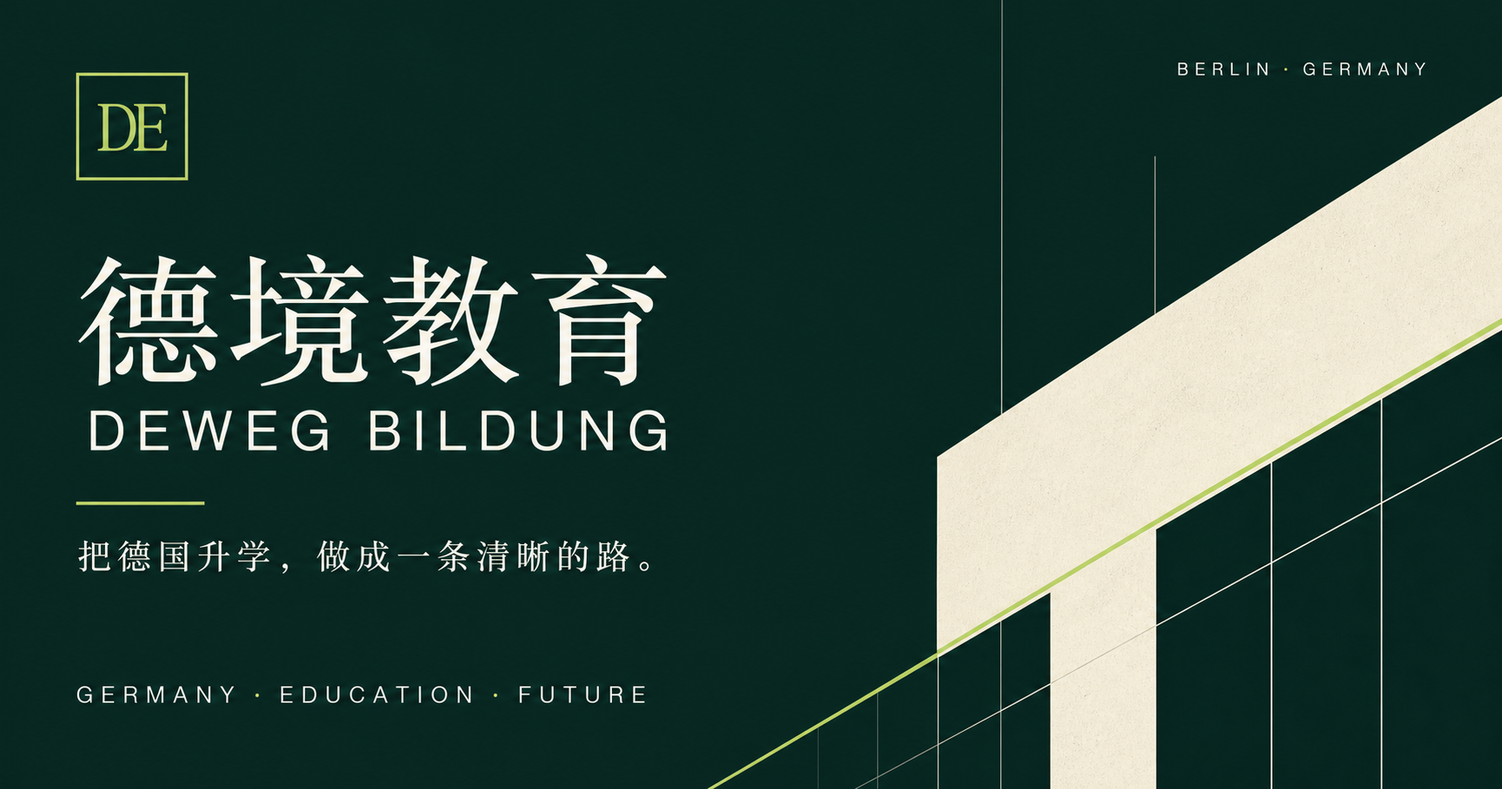
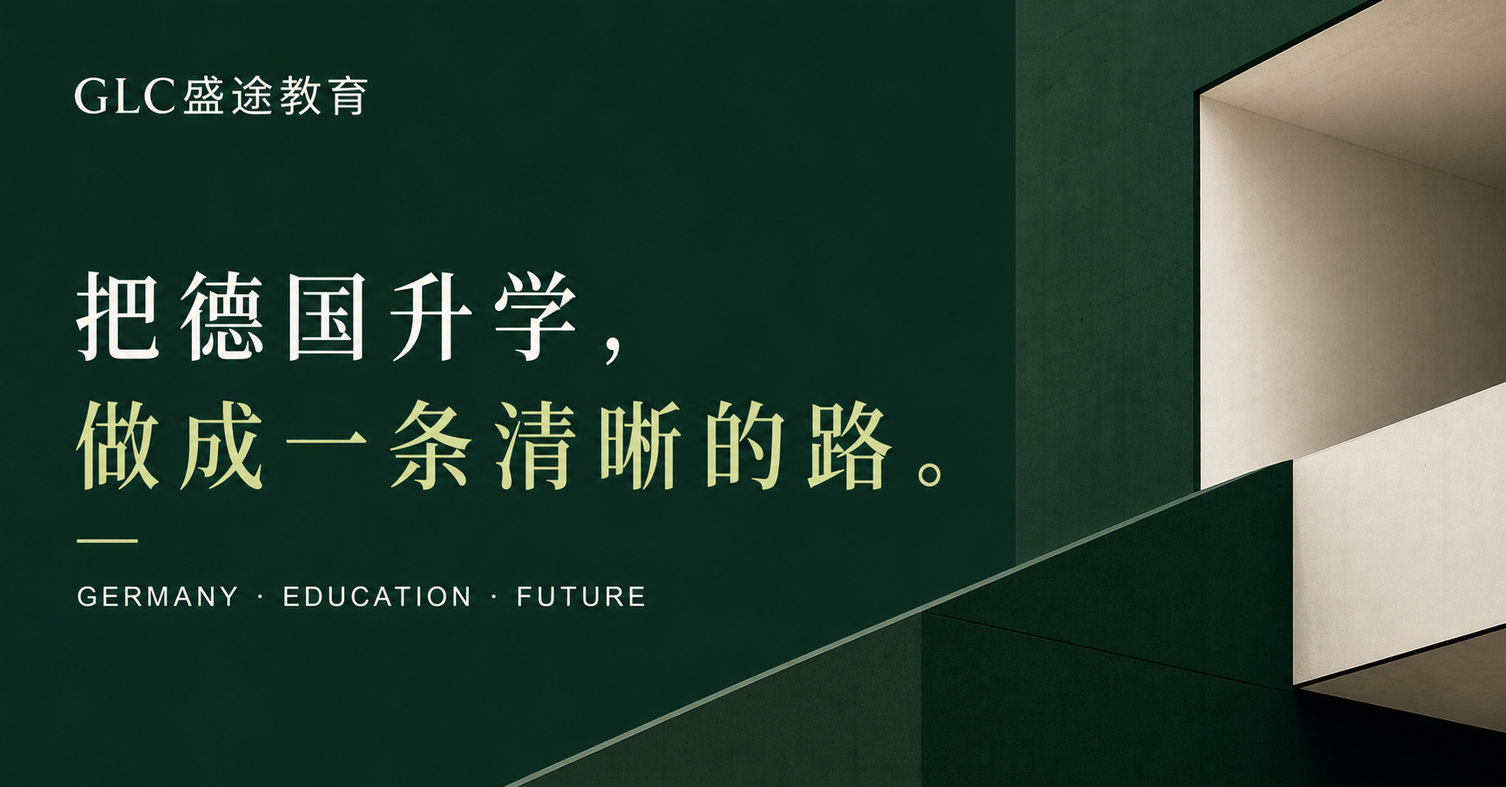
Correct brand to GLC Shengtujiaoyu

diff --git a/app/about/page.tsx b/app/about/page.tsx
@@ -1,9 +1,9 @@
 import type { Metadata } from "next";
 import { BottomCta, Disclaimer, PageShell, SectionHeading, SubHero } from "../site";
-export const metadata: Metadata = { title:"关于我们", description:"了解德境教育的品牌理念、创立初心和教育价值观。" };
-export default function About(){return <PageShell><SubHero kicker="ÜBER UNS" title="关于德境教育" intro="教育不是一次中介服务，而是一段需要方向、判断与长期陪伴的成长规划。" index="05" image="/images/munich-city.jpg" alt="慕尼黑城市建筑"/>
-  <section className="section container editorial-intro"><p className="eyebrow">UNSERE IDEE</p><blockquote>“把复杂的德国教育体系，<br/>转化为一条学生真正能够理解并走下去的路。”</blockquote><div><h3>品牌理念</h3><p>德境教育关注的不只是一次申请结果，而是学生在不同阶段如何建立能力、形成选择，并为新的学习与生活环境做好准备。</p></div></section>
-  <section className="section soft-section"><div className="container two-col"><div><SectionHeading kicker="WARUM DEWEG" title="为什么创立德境教育"/></div><div className="prose"><p>德国教育体系路径多元、规则严谨，也伴随州际差异、语言门槛和复杂的申请节点。信息很多，但真正困难的是判断：哪些与自己有关，哪些选择值得投入。</p><p>德境教育希望减少不必要的信息差和焦虑。我们用可核对的信息、清晰的流程和长期视角，帮助学生与家庭看见选择背后的前提、成本和风险。</p></div></div></section>
-  <section className="section container company-profile"><SectionHeading kicker="UNTERNEHMEN" title="运营主体" text="品牌与签约主体清晰分开，是建立长期信任的第一步。"/><div className="company-facts"><p><span>品牌名称</span><b>德境教育 · DEWEG BILDUNG</b></p><p><span>运营主体</span><b>重庆盛途教育咨询有限公司</b></p><p><span>办公地址</span><b>重庆市大渡口区湖榕路22号4幢16-16</b></p><p><span>服务范围</span><b>德国语言班、高中与大学申请、未成年学生在德支持</b></p></div><Disclaimer>网站展示的是品牌与服务介绍。具体服务内容、收费、责任边界及退款安排，以客户最终签署的合同和补充协议为准。</Disclaimer></section>
+export const metadata: Metadata = { title:"关于我们", description:"了解GLC盛途教育的品牌理念、创立初心和教育价值观。" };
+export default function About(){return <PageShell><SubHero kicker="ÜBER UNS" title="关于GLC盛途教育" intro="教育不是一次中介服务，而是一段需要方向、判断与长期陪伴的成长规划。" index="05" image="/images/munich-city.jpg" alt="慕尼黑城市建筑"/>
+  <section className="section container editorial-intro"><p className="eyebrow">UNSERE IDEE</p><blockquote>“把复杂的德国教育体系，<br/>转化为一条学生真正能够理解并走下去的路。”</blockquote><div><h3>品牌理念</h3><p>GLC盛途教育关注的不只是一次申请结果，而是学生在不同阶段如何建立能力、形成选择，并为新的学习与生活环境做好准备。</p></div></section>
+  <section className="section soft-section"><div className="container two-col"><div><SectionHeading kicker="WARUM GLC" title="为什么创立GLC盛途教育"/></div><div className="prose"><p>德国教育体系路径多元、规则严谨，也伴随州际差异、语言门槛和复杂的申请节点。信息很多，但真正困难的是判断：哪些与自己有关，哪些选择值得投入。</p><p>GLC盛途教育希望减少不必要的信息差和焦虑。我们用可核对的信息、清晰的流程和长期视角，帮助学生与家庭看见选择背后的前提、成本和风险。</p></div></div></section>
+  <section className="section container company-profile"><SectionHeading kicker="UNTERNEHMEN" title="运营主体" text="品牌与签约主体清晰分开，是建立长期信任的第一步。"/><div className="company-facts"><p><span>品牌名称</span><b>GLC盛途教育</b></p><p><span>运营主体</span><b>重庆盛途教育咨询有限公司</b></p><p><span>办公地址</span><b>重庆市大渡口区湖榕路22号4幢16-16</b></p><p><span>服务范围</span><b>德国语言班、高中与大学申请、未成年学生在德支持</b></p></div><Disclaimer>网站展示的是品牌与服务介绍。具体服务内容、收费、责任边界及退款安排，以客户最终签署的合同和补充协议为准。</Disclaimer></section>
   <section className="section container"><SectionHeading kicker="WERTE" title="我们的价值观"/><div className="values-large"><article><span>01</span><h3>真实</h3><p>事实与经验分开表达，不用承诺结果换取信任。</p></article><article><span>02</span><h3>审慎</h3><p>尊重每个学生的差异，给出有条件、有边界的建议。</p></article><article><span>03</span><h3>长期</h3><p>把语言、学业、适应和职业放在连续的成长路径中。</p></article></div></section>
   <section className="company-band"><div className="container"><p className="eyebrow light">VERANTWORTUNG</p><h2>把服务内容、费用与责任边界<br/>写进正式合同。</h2><p>咨询电话 135 2759 6068 · 公司邮箱 shengtujy@163.com</p></div></section><BottomCta/></PageShell>}

diff --git a/app/contact/page.tsx b/app/contact/page.tsx
@@ -1,10 +1,10 @@
 import type { Metadata } from "next";
 import { LeadForm } from "../forms";
 import { PageShell, SubHero } from "../site";
-export const metadata: Metadata = { title:"联系我们", description:"通过公司邮箱、联系电话或官网咨询表单联系德境教育。" };
+export const metadata: Metadata = { title:"联系我们", description:"通过公司邮箱、联系电话或官网咨询表单联系GLC盛途教育。" };
 const fields=[{name:"name",label:"姓名",placeholder:"您的姓名"},{name:"phone",label:"电话",type:"tel" as const,placeholder:"+86 / +49"},{name:"wechat",label:"微信",placeholder:"微信号"},{name:"email",label:"邮箱",type:"email" as const,placeholder:"name@example.com"},{name:"grade",label:"学生年级",type:"select" as const,options:["初中","高中","大学本科","大学毕业","其他"]},{name:"goal",label:"目标",type:"select" as const,options:["德国高中","德国本科 / 预科","德国硕士","长期规划","其他"]},{name:"message",label:"留言",type:"textarea" as const,placeholder:"请简要介绍目前情况、语言基础与计划入学时间"}];
 const channels=[["公司邮箱","shengtujy@163.com"],["联系电话","135 2759 6068"],["联系人","张智"],["公司主体","重庆盛途教育咨询有限公司"]];
 export default function Contact(){return <PageShell><SubHero kicker="KONTAKT" title="联系我们" intro="先从一次认真沟通开始。告诉我们你的现状、目标和时间线。" index="06"/>
-  <section className="section container contact-layout"><div className="contact-intro"><p className="eyebrow">KONTAKTWEGE</p><h2>保持联系</h2><p>德境教育由重庆盛途教育咨询有限公司运营，业务范围包括德国语言班、公立及私立高中、大学申请，以及未成年学生在德支持服务。</p><div className="channel-list">{channels.map(([name,value])=><div key={name}><span>{name}</span><b>{value}</b></div>)}</div><div className="contact-actions"><a className="button primary" href="tel:+8613527596068">拨打电话</a><a className="button secondary-button" href="mailto:shengtujy@163.com">发送邮件</a></div></div><LeadForm fields={fields} submitLabel="生成咨询邮件" successTitle="咨询邮件已生成" successText="您的设备应已打开邮件编辑窗口。"/></section>
+  <section className="section container contact-layout"><div className="contact-intro"><p className="eyebrow">KONTAKTWEGE</p><h2>保持联系</h2><p>GLC盛途教育由重庆盛途教育咨询有限公司运营，业务范围包括德国语言班、公立及私立高中、大学申请，以及未成年学生在德支持服务。</p><div className="channel-list">{channels.map(([name,value])=><div key={name}><span>{name}</span><b>{value}</b></div>)}</div><div className="contact-actions"><a className="button primary" href="tel:+8613527596068">拨打电话</a><a className="button secondary-button" href="mailto:shengtujy@163.com">发送邮件</a></div></div><LeadForm fields={fields} submitLabel="生成咨询邮件" successTitle="咨询邮件已生成" successText="您的设备应已打开邮件编辑窗口。"/></section>
   <section className="map-placeholder"><div><span>CHONGQING · CHINA</span><h2>重庆市大渡口区</h2><p>湖榕路22号4幢16-16 · 到访前请先电话预约</p></div></section>
 </PageShell>}

diff --git a/app/site.tsx b/app/site.tsx
@@ -19,9 +19,9 @@ export function Plus() { return <span aria-hidden="true">＋</span>; }
 export function Header() {
   return <header className="header">
     <div className="container nav-wrap">
-      <Link className="logo" href="/" aria-label="德境教育首页">
-        <span className="logo-mark">D<span>E</span></span>
-        <span><b>德境教育</b><small>DEWEG BILDUNG</small></span>
+      <Link className="logo" href="/" aria-label="GLC盛途教育首页">
+        <span className="logo-mark">GLC</span>
+        <span><b>GLC盛途教育</b><small>GERMANY STUDY PROGRAM</small></span>
       </Link>
       <nav className="desktop-nav" aria-label="主导航">
         {nav.slice(0, 7).map(([label, href]) => <Link href={href} key={href}>{label}</Link>)}
@@ -42,16 +42,16 @@ export function Footer() {
     <div className="container footer-grid">
       <div className="footer-brand">
         <Link className="logo inverse" href="/">
-          <span className="logo-mark">D<span>E</span></span>
-          <span><b>德境教育</b><small>DEWEG BILDUNG</small></span>
+          <span className="logo-mark">GLC</span>
+          <span><b>GLC盛途教育</b><small>GERMANY STUDY PROGRAM</small></span>
         </Link>
         <p>专注德国教育体系的长期升学规划与申请服务。</p>
       </div>
       <div><h4>留学方向</h4><Link href="/high-school">德国高中</Link><Link href="/university">德国大学</Link><Link href="/process">服务流程</Link></div>
-      <div><h4>德境教育</h4><Link href="/cases">服务场景</Link><Link href="/about">关于我们</Link><Link href="/appointment">预约咨询</Link></div>
+      <div><h4>GLC盛途教育</h4><Link href="/cases">服务场景</Link><Link href="/about">关于我们</Link><Link href="/appointment">预约咨询</Link></div>
       <div><h4>联系方式</h4><a href="mailto:shengtujy@163.com">shengtujy@163.com</a><a href="tel:+8613527596068">135 2759 6068</a><p>重庆市大渡口区<br /><small>重庆盛途教育咨询有限公司</small></p></div>
     </div>
-    <div className="container footer-bottom"><span>© 2026 DEWEG BILDUNG</span><span>All Rights Reserved. · <Link href="/privacy">隐私政策</Link> · <Link href="/legal">法律声明</Link></span></div>
+    <div className="container footer-bottom"><span>© 2026 GLC盛途教育</span><span>All Rights Reserved. · <Link href="/privacy">隐私政策</Link> · <Link href="/legal">法律声明</Link></span></div>
   </footer>;
 }
 
@@ -70,7 +70,7 @@ export function SubHero({ kicker, title, intro, index, image, alt }: { kicker: s
     <div className="subhero-shade" />
     <div className="container subhero-inner">
       <div><p className="eyebrow light">{kicker}</p><h1>{title}</h1><p>{intro}</p></div>
-      <span className="page-index">{index}<small>DEWEG BILDUNG</small></span>
+      <span className="page-index">{index}<small>GLC盛途教育</small></span>
     </div>
   </section>;
 }

diff --git a/app/layout.tsx b/app/layout.tsx
@@ -5,22 +5,22 @@ const siteUrl = "https://germany-study-agency-wxiv.vercel.app";
 
 export const metadata: Metadata = {
   metadataBase: new URL(siteUrl),
-  title: { default: "德境教育｜德国留学长期规划与申请", template: "%s｜德境教育" },
-  description: "德境教育由重庆盛途教育咨询有限公司运营，专注德国语言班、高中与大学申请、未成年学生在德支持及长期升学规划。",
-  keywords: ["德国留学", "德国高中", "德国大学申请", "德国预科", "APS", "德国留学咨询", "德境教育"],
-  authors: [{ name: "德境教育 DEWEG BILDUNG" }],
-  creator: "德境教育 DEWEG BILDUNG",
+  title: { default: "GLC盛途教育｜德国留学长期规划与申请", template: "%s｜GLC盛途教育" },
+  description: "GLC盛途教育由重庆盛途教育咨询有限公司运营，专注德国语言班、高中与大学申请、未成年学生在德支持及长期升学规划。",
+  keywords: ["德国留学", "德国高中", "德国大学申请", "德国预科", "APS", "德国留学咨询", "GLC盛途教育", "盛途教育"],
+  authors: [{ name: "GLC盛途教育" }],
+  creator: "GLC盛途教育",
   alternates: { canonical: "/" },
   openGraph: {
     type: "website",
     locale: "zh_CN",
     url: siteUrl,
-    siteName: "德境教育 DEWEG BILDUNG",
-    title: "德境教育｜把德国升学，做成一条清晰的路。",
+    siteName: "GLC盛途教育",
+    title: "GLC盛途教育｜把德国升学，做成一条清晰的路。",
     description: "专注德国教育体系长期规划与申请服务。",
-    images: [{ url: "/og.png", width: 1730, height: 909, alt: "德境教育｜把德国升学，做成一条清晰的路。" }],
+    images: [{ url: "/og.png", width: 1734, height: 907, alt: "GLC盛途教育｜把德国升学，做成一条清晰的路。" }],
   },
-  twitter: { card: "summary_large_image", title: "德境教育｜德国留学长期规划与申请", description: "把德国升学，做成一条清晰的路。", images: ["/og.png"] },
+  twitter: { card: "summary_large_image", title: "GLC盛途教育｜德国留学长期规划与申请", description: "把德国升学，做成一条清晰的路。", images: ["/og.png"] },
 };
 export const viewport: Viewport = { width: "device-width", initialScale: 1, themeColor: "#102a23" };
 export default function RootLayout({children}:{children:React.ReactNode}){return <html lang="zh-CN"><body>{children}</body></html>}

diff --git a/app/appointment/page.tsx b/app/appointment/page.tsx
@@ -1,7 +1,7 @@
 import type { Metadata } from "next";
 import { LeadForm } from "../forms";
 import { PageShell, SubHero } from "../site";
-export const metadata: Metadata = { title:"预约咨询", description:"预约德境教育德国升学初步评估与规划咨询。" };
+export const metadata: Metadata = { title:"预约咨询", description:"预约GLC盛途教育德国升学初步评估与规划咨询。" };
 const fields=[{name:"name",label:"姓名",placeholder:"您的姓名"},{name:"wechat",label:"微信",placeholder:"微信号"},{name:"email",label:"邮箱",type:"email" as const,placeholder:"name@example.com"},{name:"phone",label:"电话",type:"tel" as const,placeholder:"+86 / +49"},{name:"country",label:"目前所在国家",placeholder:"例如：中国 / 德国"},{name:"education",label:"目前学历",type:"select" as const,options:["初中在读","高中在读","高中毕业","本科在读","本科毕业","其他"]},{name:"school",label:"目标学校",placeholder:"如暂未确定，可填写“待评估”"},{name:"major",label:"目标专业",placeholder:"如暂未确定，可填写兴趣方向"},{name:"intake",label:"预计入学时间",placeholder:"例如：2027 冬季学期"},{name:"message",label:"留言",type:"textarea" as const,placeholder:"请介绍成绩、语言基础、目标与最希望解决的问题"}];
 export default function Appointment(){return <PageShell><SubHero kicker="TERMIN VEREINBAREN" title="预约咨询" intro="填写基本情况，帮助我们在首次沟通前理解你的背景与目标。" index="07" image="/images/berlin-university.jpg" alt="德国大学建筑"/>
   <section className="section container appointment-layout"><div><p className="eyebrow">ERSTGESPRÄCH</p><h2>一次有准备的<br/>初步沟通。</h2><p>我们会先了解你目前所处的阶段，确认需要解决的问题，再判断下一步是否需要正式评估。</p><ol><li><span>01</span>基本背景与时间线</li><li><span>02</span>核心目标与现实约束</li><li><span>03</span>可选方向与下一步建议</li></ol></div><LeadForm fields={fields} submitLabel="生成预约邮件" successTitle="预约邮件已生成" successText="您的设备应已打开邮件编辑窗口。"/></section>

diff --git a/app/forms.tsx b/app/forms.tsx
@@ -10,8 +10,8 @@ export function LeadForm({ fields, submitLabel = "提交咨询", successTitle = 
     e.preventDefault();
     const form = new FormData(e.currentTarget);
     const lines = fields.map(field => `${field.label}：${String(form.get(field.name) ?? "").trim() || "未填写"}`);
-    const subject = encodeURIComponent(`德境教育官网咨询｜${String(form.get("name") ?? "未署名")}`);
-    const body = encodeURIComponent(`您好，我希望咨询德国留学服务。\n\n${lines.join("\n")}\n\n此邮件由德境教育官网表单生成。`);
+    const subject = encodeURIComponent(`GLC盛途教育官网咨询｜${String(form.get("name") ?? "未署名")}`);
+    const body = encodeURIComponent(`您好，我希望咨询德国留学服务。\n\n${lines.join("\n")}\n\n此邮件由GLC盛途教育官网表单生成。`);
     window.location.href = `mailto:shengtujy@163.com?subject=${subject}&body=${body}`;
     setSent(true);
   }
@@ -23,7 +23,7 @@ export function LeadForm({ fields, submitLabel = "提交咨询", successTitle = 
         : field.type === "textarea" ? <textarea name={field.name} rows={5} placeholder={field.placeholder} />
         : <input name={field.name} type={field.type ?? "text"} placeholder={field.placeholder} required={["name","phone","wechat"].includes(field.name)} />}
       </label>)}</div>
-      <label className="consent"><input type="checkbox" required /> <span>我已阅读<a href="/privacy" target="_blank">隐私政策</a>，并同意德境教育为回复本次咨询处理以上信息。</span></label>
+      <label className="consent"><input type="checkbox" required /> <span>我已阅读<a href="/privacy" target="_blank">隐私政策</a>，并同意GLC盛途教育为回复本次咨询处理以上信息。</span></label>
       <button className="button primary form-submit" type="submit">{submitLabel} <Arrow /></button>
       <small className="form-note">提交后将调用您设备上的邮件应用，并预先填写发送至 shengtujy@163.com 的咨询邮件；网站本身不会保存表单内容。您也可以直接致电 135 2759 6068。</small>
     </form>

diff --git a/app/high-school/page.tsx b/app/high-school/page.tsx
@@ -36,7 +36,7 @@ export default function HighSchool(){return <PageShell>
     <div className="school-grid">{schools.map(([title,text],i)=><article key={title}><span>0{i+1}</span><h3>{title}</h3><p>{text}</p></article>)}</div>
   </section>
   <section className="section soft-section"><div className="container"><SectionHeading kicker="VORAUSSETZUNGEN" title="申请条件" text="判断是否适合，不只看成绩。年龄、语言、学业衔接和独立生活准备同样重要。"/><div className="detail-list">{requirements.map(([title,text])=><article key={title}><h3>{title}</h3><p>{text}</p></article>)}</div></div></section>
-  <section className="section container"><SectionHeading kicker="KOSTEN" title="项目费用参考" text="以下为德境教育当前德国高中项目的参考收费，用于初步预算判断。人民币与欧元项目分别计价。"/>
+  <section className="section container"><SectionHeading kicker="KOSTEN" title="项目费用参考" text="以下为GLC盛途教育当前德国高中项目的参考收费，用于初步预算判断。人民币与欧元项目分别计价。"/>
     <div className="pricing-grid">{publicPlans.map(plan=><article className="pricing-card" key={plan.state}><p className="eyebrow">{plan.state}</p><h3>{plan.school}</h3><div>{plan.costs.map(([name,value])=><p key={name}><span>{name}</span><b>{value}</b></p>)}</div></article>)}
       <article className="pricing-card private-card"><p className="eyebrow">PRIVATSCHULE</p><h3>私立文理中学</h3><div><p><span>申请与签证服务</span><b>人民币 28,000 元 / 项目</b></p><p><span>学费、住宿及生活费</span><b>约 28,000–56,000 欧元 / 学年</b></p></div></article>
     </div>

diff --git a/app/legal/page.tsx b/app/legal/page.tsx
@@ -1,14 +1,14 @@
 import type { Metadata } from "next";
 import { PageShell, SubHero } from "../site";
 
-export const metadata: Metadata = { title: "法律声明", description: "德境教育网站运营主体、信息边界与免责声明。" };
+export const metadata: Metadata = { title: "法律声明", description: "GLC盛途教育网站运营主体、信息边界与免责声明。" };
 
 export default function LegalPage() {
   return <PageShell>
     <SubHero kicker="RECHTLICHE HINWEISE" title="法律声明" intro="网站信息用于服务介绍与初步规划，不替代学校、签证或法律主管机构的正式决定。" index="08" />
     <section className="section container legal-copy">
       <h2>运营信息</h2>
-      <p>“德境教育（DEWEG BILDUNG）”为本网站使用的服务品牌，网站运营主体为重庆盛途教育咨询有限公司。联系邮箱：<a href="mailto:shengtujy@163.com">shengtujy@163.com</a>；联系电话：<a href="tel:+8613527596068">135 2759 6068</a>；办公地址：重庆市大渡口区湖榕路22号4幢16-16。</p>
+      <p>“GLC盛途教育”是本网站使用的服务品牌，网站运营主体为重庆盛途教育咨询有限公司。联系邮箱：<a href="mailto:shengtujy@163.com">shengtujy@163.com</a>；联系电话：<a href="tel:+8613527596068">135 2759 6068</a>；办公地址：重庆市大渡口区湖榕路22号4幢16-16。</p>
       <h2>信息边界</h2>
       <p>网站内容基于现有项目资料整理。德国各联邦州、学校、使领馆及其他主管机构的政策与要求可能变化，申请人应以相关机构最新书面信息为准。</p>
       <h2>结果说明</h2>

diff --git a/app/cases/page.tsx b/app/cases/page.tsx
@@ -1,7 +1,7 @@
 import type { Metadata } from "next";
 import Image from "next/image";
 import { BottomCta, Disclaimer, PageShell, SubHero } from "../site";
-export const metadata: Metadata = { title:"服务场景", description:"德境教育德国高中、大学申请与未成年人在德支持的典型服务场景。" };
+export const metadata: Metadata = { title:"服务场景", description:"GLC盛途教育德国高中、大学申请与未成年人在德支持的典型服务场景。" };
 const cases=[
   {name:"高中申请",title:"公立及私立文理中学规划",tags:"择校 · 语言 · 签证",text:"根据学生能力、家庭意愿和目标州的实际安排，筛选 1–3 所公立或私立学校，推进申请并协助准备签证。",decision:"年级衔接、德语基础与学校要求是否匹配",service:"学校建议、申请材料、签证准备与学业规划",boundary:"录取及签证由学校和主管机构独立决定",image:"/images/german-university.jpg"},
   {name:"在德支持",title:"未成年学生监护与生活协调",tags:"监护 · 学校 · 反馈",text:"围绕未成年学生在德期间的学校沟通、月度反馈、基础事务与突发情况提供协调支持。",decision:"监护、住宿、学校和家庭之间的责任边界",service:"监护文件协助、学校沟通、定期反馈与应急协调",boundary:"具体职责、期限及费用以正式合同为准",image:"/images/berlin-university.jpg"},

diff --git a/app/globals.css b/app/globals.css
@@ -9,4 +9,5 @@
 @media(max-width:650px){.pricing-grid{grid-template-columns:1fr}.private-card{grid-column:auto}.pricing-card{min-height:auto}.service-scope>div{grid-template-columns:1fr}.company-facts p{grid-template-columns:1fr;gap:8px}.legal-copy h2{font-size:27px}}
 .secondary-button{background:transparent;color:var(--green);border:1px solid var(--green)}.secondary-button:hover{background:var(--paper)}.contact-actions{display:flex;gap:12px;margin-top:30px}.contact-actions .button{flex:1;gap:12px;padding:14px 16px}.company-band{background:linear-gradient(100deg,#0d2720,#173b31);color:#fff;padding:100px 0}.company-band h2{font-size:52px;margin-bottom:24px}.company-band>div>p:last-child{color:#b5c3bd;margin:0}.success-modal>p+p{font-size:12px;line-height:1.7}.form-note{max-width:720px}
 @media(max-width:650px){.contact-actions{flex-direction:column}.company-band{padding:75px 0}.company-band h2{font-size:36px}}
+.logo-mark{width:42px;color:var(--lime);font-family:Arial,sans-serif;font-size:11px;letter-spacing:.02em}.logo b{letter-spacing:.1em}.logo small{font-size:6px;letter-spacing:.12em}.logo.inverse .logo-mark{color:var(--deep)}
 @media(prefers-reduced-motion:reduce){html{scroll-behavior:auto}*,*:before,*:after{transition:none!important;animation:none!important}}

diff --git a/app/page.tsx b/app/page.tsx
@@ -50,7 +50,7 @@ export default function Home() {
     </section>
 
     <section className="section container">
-      <SectionHeading kicker="WARUM DEWEG" title="为什么选择德境教育" text="我们不把申请看成一次材料递交，而是把每个阶段放进完整的成长路径中。" />
+      <SectionHeading kicker="WARUM GLC" title="为什么选择GLC盛途教育" text="我们不把申请看成一次材料递交，而是把每个阶段放进完整的成长路径中。" />
       <div className="advantage-grid">{advantages.map((item, i) => <article key={item}><span>0{i + 1}</span><h3>{item}</h3><p>{["从当前阶段倒推未来选择，让语言、学业与申请相互衔接。","理解德国教育体系与在地生活语境，提供更贴近真实环境的判断。","固定顾问持续沟通，重要选择有依据、有记录、有反馈。","服务范围、流程节点与责任边界在合作开始前清晰说明。","从评估、材料、递交到结果跟进，关键节点保持连续协作。","关注录取之后的适应与发展，让规划延伸到在德学习阶段。"][i]}</p></article>)}</div>
     </section>
 

diff --git a/app/icon.tsx b/app/icon.tsx
@@ -2,5 +2,5 @@ import { ImageResponse } from "next/og";
 export const size = { width: 64, height: 64 };
 export const contentType = "image/png";
 export default function Icon() {
-  return new ImageResponse(<div style={{width:"100%",height:"100%",display:"flex",alignItems:"center",justifyContent:"center",background:"#183c32",color:"#d8e59e",fontSize:23,fontWeight:700,letterSpacing:"-2px"}}>DE</div>, size);
+  return new ImageResponse(<div style={{width:"100%",height:"100%",display:"flex",alignItems:"center",justifyContent:"center",background:"#183c32",color:"#d8e59e",fontSize:19,fontWeight:700,letterSpacing:"0px"}}>GLC</div>, size);
 }
